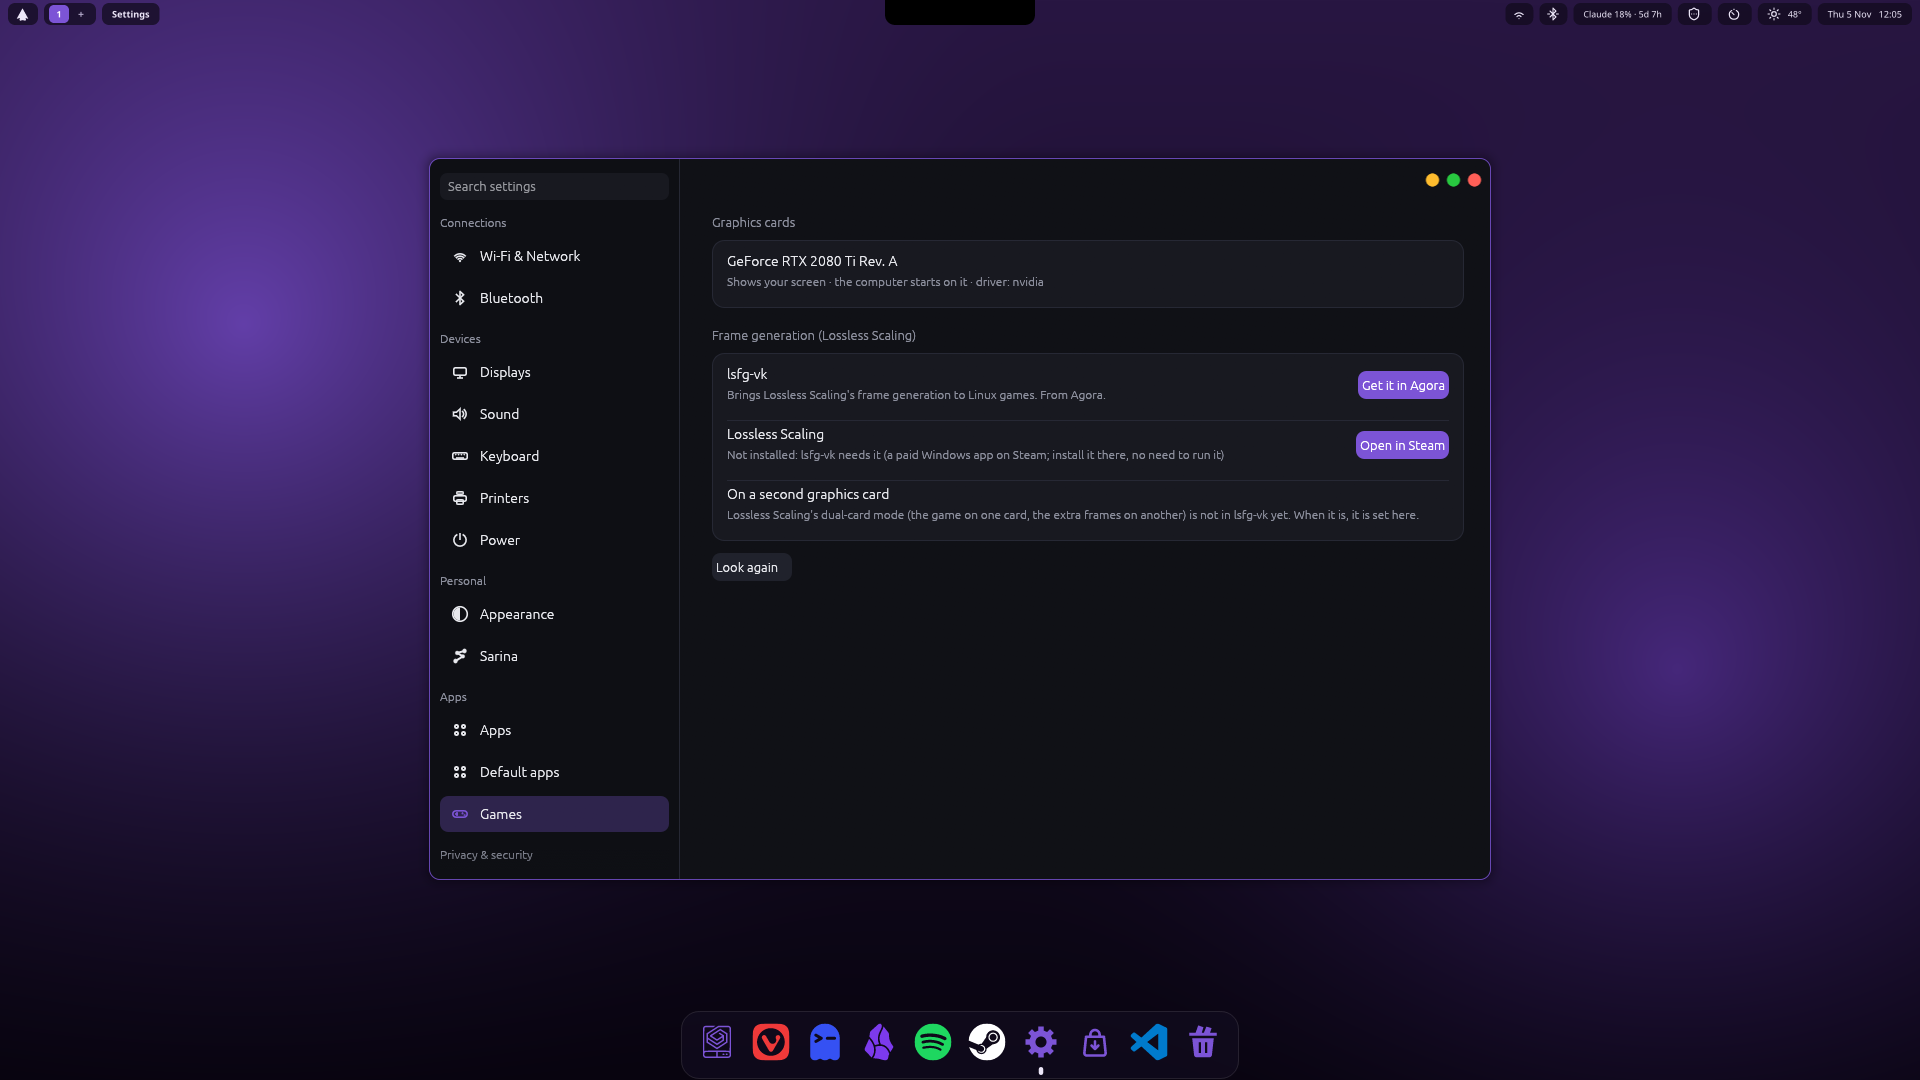
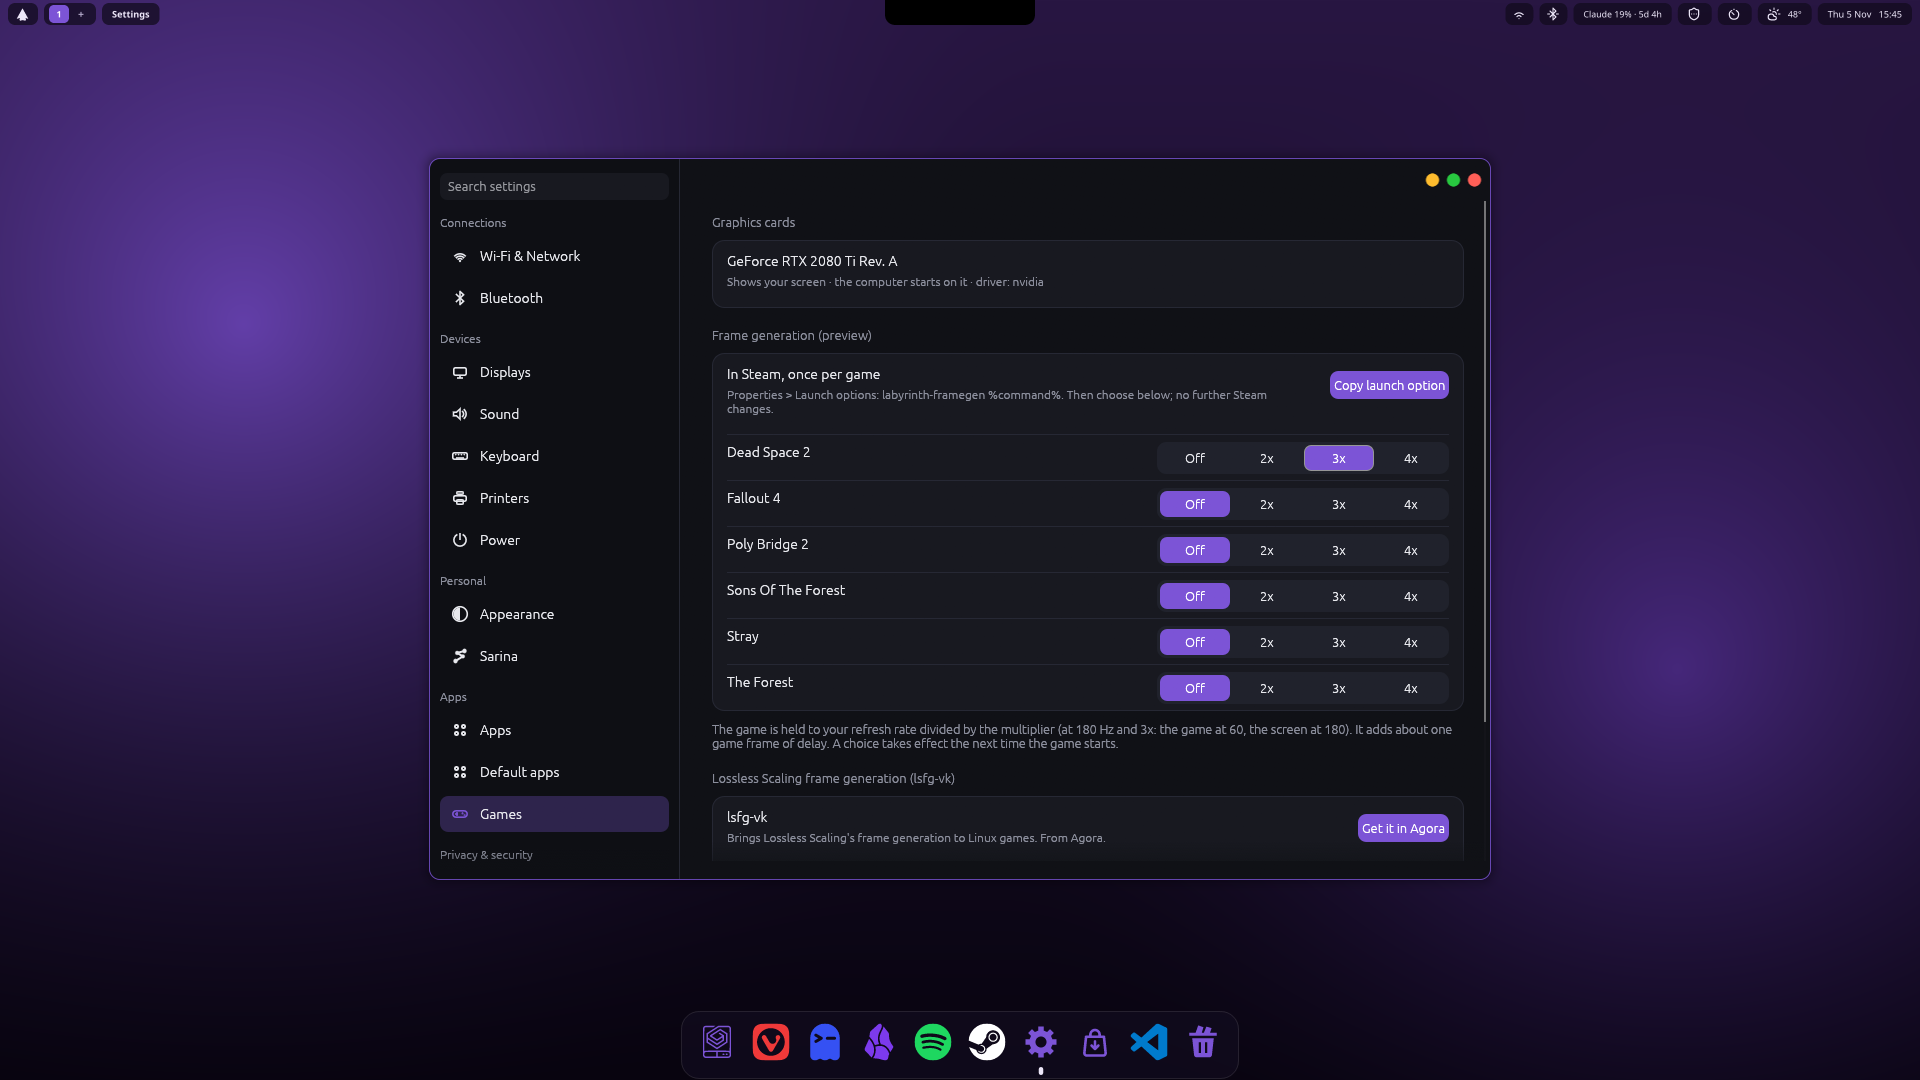
Settings > Games: frame generation per game (Labyrinth's own, preview)
Every installed Steam game with Off / 2x / 3x / 4x, saved to ~/.config/labyrinth-framegen/games.conf, which
the labyrinth-framegen launcher (Steam launch options, once; Copy launch option) reads when the game starts.
Steam's tools are left out. lsfg-vk keeps its own group, now named as such.

diff --git a/packages/settings/src/games.rs b/packages/settings/src/games.rs
@@ -3,7 +3,10 @@
 //! - Graphics cards: read by `yggdrasil-gpu-run list --json` (helpers/gpu-run), the same code that later starts the game, so
 //!   the numbers here are the numbers it takes. With two or more cards each one shows the Steam launch option that runs a game
 //!   on it (`yggdrasil-gpu-run 2 %command%`), with a Copy button.
-//! - Frame generation: lsfg-vk (a Vulkan layer, from Agora: its licence keeps it out of the system itself) and Lossless
+//! - Frame generation (Labyrinth's own, labyrinth-framegen): every installed Steam game with Off / 2x / 3x / 4x, written to
+//!   ~/.config/labyrinth-framegen/games.conf, which its launcher (`labyrinth-framegen %command%` in the game's Steam launch
+//!   options, once) reads when the game starts.
+//! - Lossless Scaling frame generation: lsfg-vk (a Vulkan layer, from Agora: its licence keeps it out of the system itself) and Lossless
 //!   Scaling (Steam, paid), whose files it needs. Its own window (lsfg-vk-ui) sets the games and multipliers; this page says
 //!   what is there and opens the rest.
 //! - On a second card (experimental): lsfg-vk has no dual-card mode and its licence forbids a changed copy, so
@@ -24,8 +27,14 @@ const GPU_RUN: &str = "/usr/bin/yggdrasil-gpu-run";
 const LSFG_LAYERS: [&str; 2] = ["/usr/share/vulkan/implicit_layer.d/VkLayer_LSFGVK_frame_generation.json", ".local/share/vulkan/implicit_layer.d/VkLayer_LSFGVK_frame_generation.json"];
 /// Lossless Scaling's Steam app id.
 const LOSSLESS_SCALING: &str = "993090";
-/// Agora's page for the frame generation component (Labyrinth's catalog).
+/// Agora's page for the lsfg-vk component (Labyrinth's catalog).
 const AGORA_APP: &str = "frame-generation";
+/// Labyrinth's own frame generation: its layer manifest (present when installed) and Agora page.
+const FRAMEGEN_LAYER: &str = "/usr/share/vulkan/implicit_layer.d/labyrinth_framegen.x86_64.json";
+const FRAMEGEN_AGORA: &str = "labyrinth-framegen";
+pub const FRAMEGEN_OPTION: &str = "labyrinth-framegen %command%";
+/// The choices per game, as Off, 2x, 3x, 4x.
+pub const FRAMEGEN_CHOICES: [&str; 4] = ["Off", "2x", "3x", "4x"];
 
 #[derive(Clone, Debug, Default, PartialEq)]
 pub struct Card {
@@ -44,6 +53,97 @@ pub struct Info {
     pub lsfg: bool,
     pub lossless: bool,
     pub steam: bool,
+    pub framegen: bool,
+    /// installed Steam games: (app id, name), by name
+    pub games: Vec<(String, String)>,
+    /// labyrinth-framegen's games.conf as it is
+    pub framegen_conf: String,
+}
+
+/// ~/.config/labyrinth-framegen/games.conf
+pub fn framegen_conf_path() -> PathBuf {
+    // the launcher's own folder (XDG_CONFIG_HOME, else ~/.config), not Yggdrasil's
+    let base = std::env::var_os("XDG_CONFIG_HOME").filter(|v| !v.is_empty()).map(PathBuf::from).unwrap_or_else(|| std::env::var_os("HOME").map(PathBuf::from).unwrap_or_default().join(".config"));
+    base.join("labyrinth-framegen/games.conf")
+}
+
+/// A game's choice in games.conf: 0 (off or not listed), 2, 3 or 4.
+pub fn framegen_choice(conf: &str, id: &str) -> u32 {
+    let mut v = 0;
+    for l in conf.lines() {
+        let mut w = l.split_whitespace();
+        if w.next() == Some(id) {
+            v = match w.next() {
+                Some("2") => 2,
+                Some("3") => 3,
+                Some("4") => 4,
+                _ => 0,
+            };
+        }
+    }
+    v
+}
+
+/// games.conf with this game's choice set (0 = off); every other line is kept as it is.
+pub fn framegen_set(conf: &str, id: &str, choice: u32) -> String {
+    let value = if (2..=4).contains(&choice) { choice.to_string() } else { "off".to_string() };
+    let mut out: Vec<String> = vec![];
+    let mut done = false;
+    for l in conf.lines() {
+        if l.split_whitespace().next() == Some(id) {
+            if !done {
+                out.push(format!("{id} {value}"));
+                done = true;
+            }
+        } else {
+            out.push(l.to_string());
+        }
+    }
+    if !done {
+        if out.is_empty() {
+            out.push("# Frame generation per Steam game: <app id> <off|2|3|4>, written by Settings > Games".into());
+        }
+        out.push(format!("{id} {value}"));
+    }
+    out.join("\n") + "\n"
+}
+
+/// An appmanifest's id and name.
+pub fn manifest_game(acf: &str) -> Option<(String, String)> {
+    let field = |key: &str| {
+        acf.lines().find_map(|l| {
+            let l = l.trim();
+            let rest = l.strip_prefix(&format!("\"{key}\""))?;
+            Some(rest.trim().trim_matches('"').to_string())
+        })
+    };
+    let (id, name) = (field("appid")?, field("name")?);
+    // Steam's own tools are not games
+    let tool = ["Proton", "Steam Linux Runtime", "Steamworks Common", "SteamVR"].iter().any(|t| name.starts_with(t)) || name.contains("Redistributable");
+    (!tool && !id.is_empty() && !name.is_empty()).then_some((id, name))
+}
+
+/// The installed Steam games, by name.
+pub fn steam_games(home: &Path) -> Vec<(String, String)> {
+    let mut games: Vec<(String, String)> = vec![];
+    for root in steam_roots(home) {
+        let vdf = std::fs::read_to_string(root.join("steamapps/libraryfolders.vdf")).unwrap_or_default();
+        for lib in libraries(&root, &vdf) {
+            let Ok(rd) = std::fs::read_dir(lib.join("steamapps")) else { continue };
+            for e in rd.flatten() {
+                let n = e.file_name().to_string_lossy().to_string();
+                if n.starts_with("appmanifest_") && n.ends_with(".acf") {
+                    if let Some(g) = std::fs::read_to_string(e.path()).ok().as_deref().and_then(manifest_game) {
+                        if !games.iter().any(|x| x.0 == g.0) {
+                            games.push(g);
+                        }
+                    }
+                }
+            }
+        }
+    }
+    games.sort_by_key(|g| g.1.to_lowercase());
+    games
 }
 
 /// `yggdrasil-gpu-run list --json`.
@@ -132,6 +232,9 @@ pub fn load() -> Info {
         lsfg: Path::new(LSFG_LAYERS[0]).is_file() || home.join(LSFG_LAYERS[1]).is_file(),
         lossless: lossless_installed(&home),
         steam: !steam_roots(&home).is_empty(),
+        framegen: Path::new(FRAMEGEN_LAYER).is_file(),
+        games: steam_games(&home),
+        framegen_conf: std::fs::read_to_string(framegen_conf_path()).unwrap_or_default(),
     }
 }
 
@@ -198,7 +301,50 @@ impl State {
             ui.label(RichText::new("To run a game on a card: in Steam, the game's Properties > Launch options, paste its launch option (for example yggdrasil-gpu-run 2 %command%). The picture reaches your screen through the card the monitor is plugged into.").color(pal.dim).size(12.5));
         }
 
-        ui::group(ui, pal, Some("Frame generation (Lossless Scaling)"), |ui| {
+        ui::group(ui, pal, Some("Frame generation (preview)"), |ui| {
+            if !info.framegen {
+                ui::row(ui, pal, true, "Frame generation", Some("Labyrinth's own: more frames on the screen than the game draws, for Vulkan and Proton games. From Agora."), |ui| {
+                    if ui::action(ui, pal, "Get it in Agora").clicked() {
+                        let _ = std::process::Command::new("agora").env("AGORA_PAGE", format!("detail:{FRAMEGEN_AGORA}")).spawn();
+                        self.info = None;
+                    }
+                });
+                return;
+            }
+            let label = if self.copied == Some(u32::MAX) { "Copied" } else { "Copy launch option" };
+            ui::row(ui, pal, true, "In Steam, once per game", Some("Properties > Launch options: labyrinth-framegen %command%. Then choose below; no further Steam changes."), |ui| {
+                if ui::action(ui, pal, label).on_hover_text(FRAMEGEN_OPTION).clicked() {
+                    ui.ctx().copy_text(FRAMEGEN_OPTION.to_string());
+                    self.copied = Some(u32::MAX);
+                }
+            });
+            if info.games.is_empty() {
+                ui::row(ui, pal, false, "No Steam games found", None, |_| {});
+            }
+            for (id, name) in &info.games {
+                let now = framegen_choice(&info.framegen_conf, id);
+                let selected = if now >= 2 { (now - 1) as usize } else { 0 };
+                let mut pick = None;
+                ui::row(ui, pal, false, name, None, |ui| {
+                    pick = ui::segmented(ui, pal, &FRAMEGEN_CHOICES, selected);
+                });
+                if let Some(i) = pick {
+                    let choice = if i == 0 { 0 } else { i as u32 + 1 };
+                    let text = framegen_set(&info.framegen_conf, id, choice);
+                    let path = framegen_conf_path();
+                    let saved = path.parent().map(std::fs::create_dir_all).transpose().and_then(|_| std::fs::write(&path, &text));
+                    if saved.is_ok() {
+                        if let Some(i) = self.info.as_mut() {
+                            i.framegen_conf = text;
+                        }
+                    }
+                }
+            }
+        });
+        ui.add_space(6.0);
+        ui.label(RichText::new("The game is held to your refresh rate divided by the multiplier (at 180 Hz and 3x: the game at 60, the screen at 180). It adds about one game frame of delay. A choice takes effect the next time the game starts.").color(pal.dim).size(12.5));
+
+        ui::group(ui, pal, Some("Lossless Scaling frame generation (lsfg-vk)"), |ui| {
             ui::row(ui, pal, true, "lsfg-vk", Some(if info.lsfg { "Installed: Lossless Scaling's frame generation for Linux games" } else { "Brings Lossless Scaling's frame generation to Linux games. From Agora." }), |ui| {
                 if info.lsfg {
                     if ui::action(ui, pal, "Choose games").on_hover_text("lsfg-vk's own settings: which games, and how many frames").clicked() {
@@ -259,6 +405,27 @@ mod tests {
         assert_eq!(describe(&c[1]), "Driver: xe");
         assert!(parse_cards("not json").is_none());
         assert_eq!(launch_option(2), "yggdrasil-gpu-run 2 %command%");
+    }
+
+    #[test]
+    fn frame_generation_choices_are_read_and_written() {
+        let conf = "# mine\n47780 3\ndefault 2\n";
+        assert_eq!(framegen_choice(conf, "47780"), 3);
+        assert_eq!(framegen_choice(conf, "1332010"), 0, "not listed: off here (the default line is the launcher's business)");
+        let c = framegen_set(conf, "47780", 0);
+        assert_eq!(c, "# mine\n47780 off\ndefault 2\n", "changed in place, the rest kept");
+        let c = framegen_set(&c, "1332010", 4);
+        assert!(c.ends_with("1332010 4\n"));
+        assert_eq!(framegen_choice(&c, "1332010"), 4);
+        assert!(framegen_set("", "1", 2).starts_with("# Frame generation per Steam game"), "a new file says what it is");
+    }
+
+    #[test]
+    fn steam_manifests_name_games_and_skip_tools() {
+        let acf = "\"AppState\"\n{\n\t\"appid\"\t\t\"47780\"\n\t\"name\"\t\t\"Dead Space 2\"\n}\n";
+        assert_eq!(manifest_game(acf), Some(("47780".into(), "Dead Space 2".into())));
+        let tool = "\"AppState\"\n{\n\t\"appid\"\t\t\"1493710\"\n\t\"name\"\t\t\"Proton Experimental\"\n}\n";
+        assert_eq!(manifest_game(tool), None);
     }
 
     #[test]

diff --git a/docs/APPS_SETTINGS.md b/docs/APPS_SETTINGS.md
@@ -30,7 +30,11 @@ Built 2026-10-15/16. Code: `packages/settings/src/appmgr.rs` (what is known abou
     card `DXVK_FILTER_DEVICE_NAME` and `VKD3D_FILTER_DEVICE_NAME` (Proton's DirectX translation) when vulkaninfo names it. The
     picture still reaches the screen through the card the monitor is plugged into (the drivers copy it across). Tested against
     a pretend two-card /sys (an RTX 2070 with an Arc B580); not yet on a real second card.
-  - **Frame generation (Lossless Scaling):** whether lsfg-vk is installed (its Vulkan layer; Get it in Agora otherwise, where
+  - **Frame generation (preview)**, Labyrinth's own (labyrinth-framegen, from Agora): every installed Steam game (from the
+    appmanifests in all Steam libraries; Proton and Steam's runtimes left out) with Off / 2x / 3x / 4x, saved at once to
+    `~/.config/labyrinth-framegen/games.conf` (`<app id> <off|2|3|4>`). The game needs `labyrinth-framegen %command%` in its
+    Steam launch options once (Copy launch option); the launcher reads the choice when the game starts.
+  - **Lossless Scaling frame generation (lsfg-vk):** whether lsfg-vk is installed (its Vulkan layer; Get it in Agora otherwise, where
     Labyrinth's catalog has it as "Frame generation", from the AUR's source recipe), whether Lossless Scaling is installed in
     any Steam library (it supplies the frame generation; Open in Steam otherwise), and "Choose games", which opens lsfg-vk's own
     window. lsfg-vk is not part of the desktop: its licence (CC BY-NC-ND 4.0) forbids changing it and commercial use.
